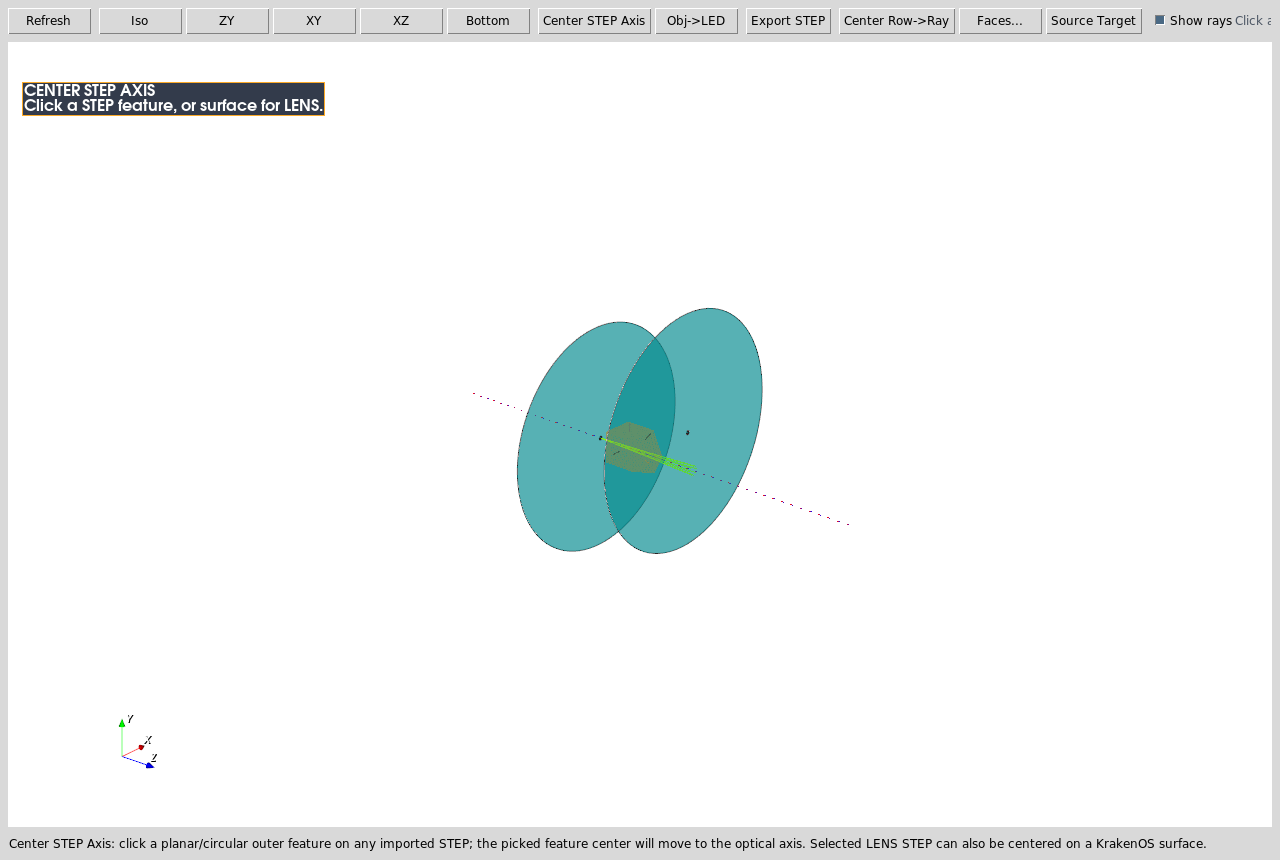
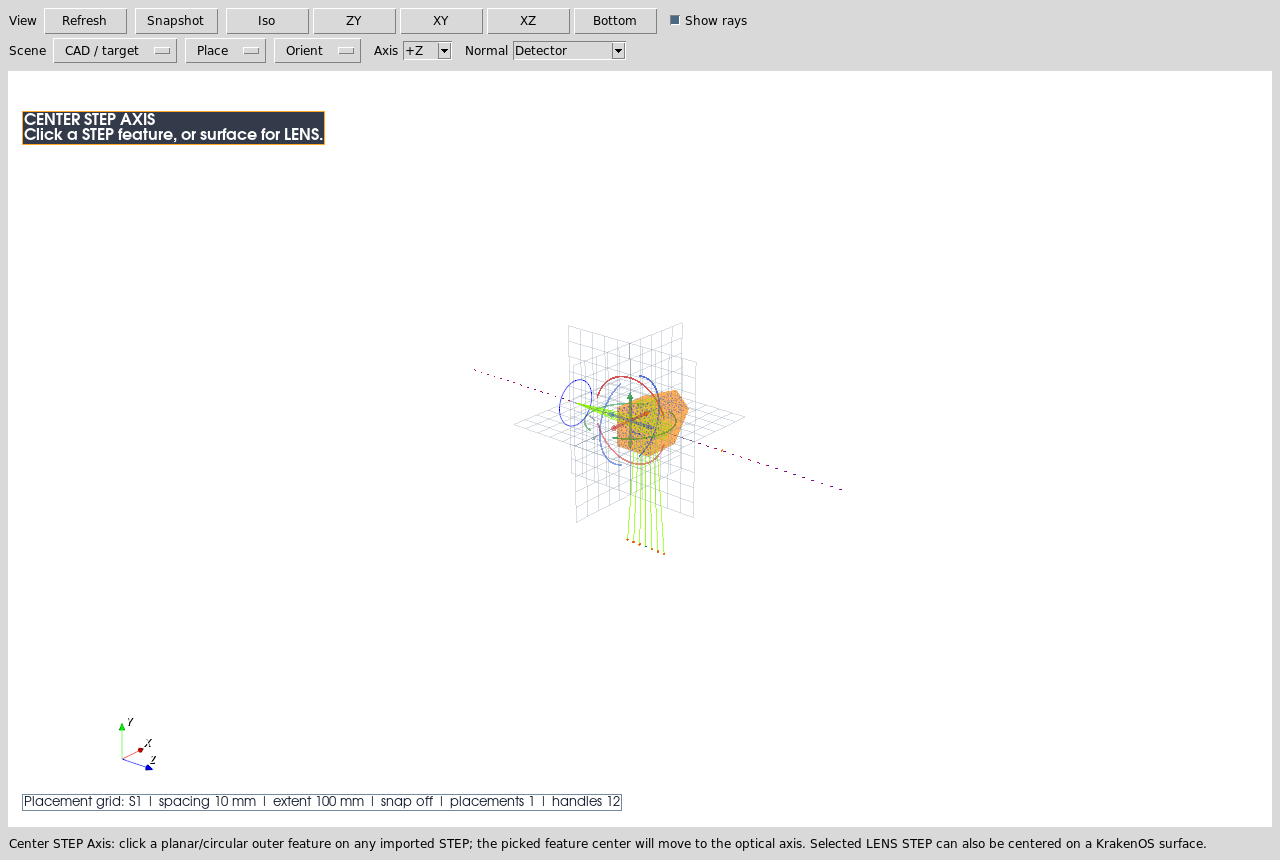
Validate STEP rotation handles

Changed region(s): [[0.0, 0.0, 1.0, 0.1814], [0.4062, 0.3628, 0.5938, 0.6651], [0.0312, 0.8465, 0.4688, 0.9372]]

diff --git a/KrakenOS/UI/validate_step_rotation_handles.py b/KrakenOS/UI/validate_step_rotation_handles.py
@@ -1,0 +1,86 @@
+"""Validate in-scene STEP rotation handle generation and write-through."""
+
+from __future__ import annotations
+
+from pathlib import Path
+
+from KrakenOS.UI import layout_editor as le
+from KrakenOS.UI.layout_editor import Kraken3DInspector, KrakenLayoutEditor
+
+
+def main() -> int:
+    le._load_3d_backends()
+    if le.pv is None:
+        raise RuntimeError("PyVista is required for STEP rotation handle validation.")
+
+    app = KrakenLayoutEditor(headless=True)
+    try:
+        app.imported_lens_step_path = Path("/tmp/kraken-validation-lens.step")
+        app.select_step_component("lens")
+
+        inspector = Kraken3DInspector.__new__(Kraken3DInspector)
+        inspector.editor = app
+        inspector.status_var = app.status_var
+        inspector._step_rotation_active_label = None
+
+        records: list[tuple[object, dict[str, object]]] = []
+
+        def record_actor(mesh, **kwargs):
+            records.append((mesh, kwargs))
+            return object()
+
+        inspector._add_mesh_actor = record_actor  # type: ignore[method-assign]
+
+        mesh = le.pv.Cube(center=(3.0, -2.0, 25.0), x_length=8.0, y_length=5.0, z_length=12.0)
+        center_extent = Kraken3DInspector._step_rotation_handle_center_and_extent(mesh)
+        if center_extent is None:
+            raise AssertionError("Expected a center/extent for the synthetic STEP mesh.")
+        center, extent = center_extent
+        if tuple(round(float(value), 6) for value in center) != (3.0, -2.0, 25.0):
+            raise AssertionError(f"Unexpected handle center: {center!r}")
+        if round(float(extent), 6) != 12.0:
+            raise AssertionError(f"Unexpected handle extent: {extent!r}")
+
+        count = inspector._add_step_rotation_handles("lens", mesh)
+        if count != 6 or len(records) != 6:
+            raise AssertionError(f"Expected six STEP rotation handles, got count={count}, records={len(records)}.")
+        rotate_specs = sorted(
+            tuple(record[1].get("pick_step_rotate", ())) for record in records
+        )
+        expected_specs = sorted(
+            (
+                ("lens", "x", -90.0),
+                ("lens", "x", 90.0),
+                ("lens", "y", -90.0),
+                ("lens", "y", 90.0),
+                ("lens", "z", -90.0),
+                ("lens", "z", 90.0),
+            )
+        )
+        if rotate_specs != expected_specs:
+            raise AssertionError(f"Unexpected STEP rotation pick specs: {rotate_specs!r}")
+        if any(int(getattr(record[0], "n_points", 0)) <= 0 for record in records):
+            raise AssertionError("A STEP rotation handle mesh was empty.")
+
+        inspector._apply_step_rotation_handle("lens", "x", 90.0)
+        inspector._apply_step_rotation_handle("lens", "y", -90.0)
+        inspector._apply_step_rotation_handle("lens", "z", 90.0)
+        if (
+            float(app.lens_step_rotation_x_deg) != 90.0
+            or float(app.lens_step_rotation_y_deg) != 270.0
+            or float(app.lens_step_rotation_z_deg) != 90.0
+        ):
+            raise AssertionError(
+                "STEP rotation handles did not write through to the persistent lens STEP rotation state."
+            )
+        if app._selected_step_label != "lens" or inspector._step_rotation_active_label != "lens":
+            raise AssertionError("STEP rotation handle did not preserve the selected STEP component.")
+    finally:
+        app.destroy()
+
+    print("STEP rotation handle validation passed.")
+    return 0
+
+
+if __name__ == "__main__":
+    raise SystemExit(main())

diff --git a/KrakenOS/UI/capture_3d_hardware_alignment_case_study_screenshots.py b/KrakenOS/UI/capture_3d_hardware_alignment_case_study_screenshots.py
@@ -78,21 +78,33 @@ def _save_center_step_badge(app: KrakenLayoutEditor, inspector: Kraken3DInspecto
     inspector.update()
     time.sleep(0.3)
     inspector.update()
-    return _save_widget(inspector, output_dir, "03_center_step_axis_mode_badge.png")
+    path = _save_widget(inspector, output_dir, "03_center_step_axis_mode_badge.png")
+    app._cad_axis_pick_any = False
+    app._cad_axis_pick_label = None
+    app._cad_led_object_edge_pick = False
+    inspector._set_axis_pick_cursor(False)
+    inspector._update_mode_badge()
+    return path
 
 
-def _save_step_rotation_handler(app: KrakenLayoutEditor, inspector: Kraken3DInspector, output_dir: Path) -> Path:
+def _save_step_rotation_handles(app: KrakenLayoutEditor, inspector: Kraken3DInspector, output_dir: Path) -> Path:
+    app._cad_axis_pick_any = False
+    app._cad_axis_pick_label = None
+    app._cad_led_object_edge_pick = False
     app.imported_lens_step_path = PRISM_42779_STEP
-    app._selected_step_label = "lens"
+    app.select_step_component("lens")
     inspector.show_step_rotation_handler("lens")
-    popup = inspector._step_rotation_popup
-    if popup is None:
-        raise RuntimeError("STEP rotation handler did not open")
-    popup.update_idletasks()
-    popup.update()
+    inspector.refresh_from_editor()
+    if not getattr(inspector, "_actor_step_rotate_map", {}):
+        raise RuntimeError("STEP rotation handles did not render")
+    inspector._set_axis_pick_cursor(False)
+    inspector._update_mode_badge()
+    inspector.lift()
+    inspector.update_idletasks()
+    inspector.update()
     time.sleep(0.3)
-    popup.update()
-    path = _save_widget(popup, output_dir, "04_step_rotation_handler.png")
+    inspector.update()
+    path = _save_widget(inspector, output_dir, "04_step_rotation_handler.png")
     inspector._close_step_rotation_handler()
     return path
 
@@ -130,7 +142,7 @@ def capture(output_dir: Path) -> list[Path]:
             outputs.append(_save_widget(inspector, output_dir, "01_3d_inspector_axis_faces.png"))
             outputs.append(_save_stl_placement_handler(inspector, output_dir))
             outputs.append(_save_center_step_badge(app, inspector, output_dir))
-            outputs.append(_save_step_rotation_handler(app, inspector, output_dir))
+            outputs.append(_save_step_rotation_handles(app, inspector, output_dir))
             outputs.append(_save_source_target_badge(inspector, output_dir))
         finally:
             try:

diff --git a/KrakenOS/UI/validate_3d_hardware_alignment_case_study.py b/KrakenOS/UI/validate_3d_hardware_alignment_case_study.py
@@ -36,18 +36,20 @@ def main() -> int:
     stl_handler = inspect.getsource(Kraken3DInspector.show_stl_placement_handler)
     badge_text = inspect.getsource(Kraken3DInspector._active_mode_badge_text)
     step_handler = inspect.getsource(Kraken3DInspector.show_step_rotation_handler)
+    step_handles = inspect.getsource(Kraken3DInspector._add_step_rotation_handles)
 
     checks = [
         ("case-study page exists", DOC_PATH.exists()),
         ("case-study in tutorials toctree", "3d_hardware_alignment" in index),
         ("capture script exists", CAPTURE_SCRIPT.exists() and "DEFAULT_OUTPUT_DIR" in capture),
         ("case-study documents CAD/STL handler", "CAD/STL placement handler" in doc),
-        ("case-study documents STEP handler", "STEP rotation handler" in doc),
+        ("case-study documents STEP rotation handles", "STEP rotation handles" in doc),
         ("case-study documents active-mode badges", "active-mode badge" in doc),
         ("case-study documents Done -> 2D", "Done -> 2D" in doc),
         ("CAD/STL handler has inline help", "What this does" in stl_handler and "Fit Axis chooses" in stl_handler),
         ("CAD/STL handler exposes placement actions", "Front On Row" in stl_handler and "Center X/Y" in stl_handler),
-        ("STEP handler still exposes repeated rotations", "-90.0" in step_handler and "90.0" in step_handler),
+        ("STEP handler selects in-scene handles", "colored STEP rotation handles" in step_handler and "tk.Toplevel" not in step_handler),
+        ("STEP handles expose repeated rotations", "pick_step_rotate" in step_handles and "-1.0" in step_handles and "90.0" in step_handles),
         ("mode badges cover source target", "SOURCE TARGET" in badge_text),
         ("mode badges cover center step axis", "CENTER STEP AXIS" in badge_text),
     ]

diff --git a/KrakenOS/UI/validate_demo_readiness.py b/KrakenOS/UI/validate_demo_readiness.py
@@ -37,6 +37,10 @@ DEFAULT_CHECKS: tuple[DemoCheck, ...] = (
         ("-m", "KrakenOS.UI.validate_step_axis_surface_pick"),
     ),
     DemoCheck(
+        "STEP rotation handles",
+        ("-m", "KrakenOS.UI.validate_step_rotation_handles"),
+    ),
+    DemoCheck(
         "lens drawing PDF case study",
         ("-m", "KrakenOS.UI.validate_lens_drawing_pdf_case_study"),
     ),

diff --git a/docs/source/tutorials/3d_hardware_alignment.rst b/docs/source/tutorials/3d_hardware_alignment.rst
@@ -12,7 +12,7 @@ focusing on the 3D controls themselves:
 * use the ``CAD/STL placement handler`` instead of a dense second toolbar;
 * understand what each placement action changes in the table;
 * arm a 3D pick workflow and read the active-mode badge;
-* use the ``STEP rotation handler`` for repeated vendor-hardware rotations;
+* use in-scene ``STEP rotation handles`` for repeated vendor-hardware rotations;
 * know when to press ``Done -> 2D``.
 
 The screenshots in this tutorial are generated from the live Tk/VTK UI with:
@@ -90,16 +90,17 @@ The same badge mechanism is used by ``Obj->LED``, ``Center Row->Ray``, and
 Rotate Imported STEP Hardware
 -----------------------------
 
-Clicking an imported lens, LED, or camera STEP overlay opens a small persistent
-rotation handler near the click location.
+Clicking an imported lens, LED, or camera STEP overlay selects that component
+and draws coloured ``X/Y/Z`` rotation handles around it inside the 3D scene.
 
 .. figure:: ../_static/tutorials/3d_hardware_alignment/04_step_rotation_handler.png
-   :alt: STEP rotation handler popup
-   :width: 52%
+   :alt: STEP rotation handles in the embedded 3D inspector
+   :width: 100%
 
-   Use this for successive ``X/Y/Z +/-90`` rotations while watching the 3D
-   view. It replaces the older duplicate toolbar menu, so rotation is tied to
-   the selected STEP component instead of hidden in the main toolbar.
+   Click a red, green, or blue handle for successive ``X/Y/Z +/-90`` rotations
+   while watching the imported STEP overlay move in the same 3D scene. This
+   replaces the older floating popup and duplicate toolbar menu, so rotation is
+   tied to the selected STEP component and does not cover the geometry.
 
 Pick Source Targets From 3D
 ---------------------------
@@ -128,7 +129,7 @@ physics of one particular component:
 * contextual CAD/STL placement side panel with inline help;
 * table-backed row pose edits through ``Tilt`` and ``Desp`` fields;
 * active-mode badges for multi-click 3D workflows;
-* selected STEP rotation popup for imported hardware overlays;
+* selected STEP rotation handles for imported hardware overlays;
 * source-target picking from the 3D view.
 
 Common Mistakes
@@ -147,6 +148,6 @@ Common Mistakes
   Treat it as a modal instruction. While the badge is visible, the next click
   is consumed by that workflow rather than by normal row/ray selection.
 
-``The STEP rotation handler rotates CAD/STL optical solid rows.``
-  It rotates imported lens/LED/camera STEP overlays. File-backed optical
+``The STEP rotation handles rotate CAD/STL optical solid rows.``
+  They rotate imported lens/LED/camera STEP overlays. File-backed optical
   CAD/STL rows use the separate ``CAD/STL placement handler``.

diff --git a/BRANCH_README.md b/BRANCH_README.md
@@ -136,7 +136,8 @@ kraken-vtk-tk-check
 - Imported lens, camera, and LED STEP overlays now rotate through selected
   in-scene colored handles instead of a separate floating STEP rotation popup.
   The handles use the same pickable 3D interaction style as row placement
-  rotation controls and write the existing STEP rotation state.
+  rotation controls, write the existing STEP rotation state, and are covered by
+  a non-GUI handle-generation/write-through validator.
 - Ray display filters show all rays, detector hits, missed detector paths,
   absorbed paths, escaped paths, diagnostic stops, and beam-splitter branches.
 - When an escaped non-sequential ray has a configured detector/Image plane, the
@@ -372,6 +373,7 @@ python -m KrakenOS.UI.validate_mixed_source_object_template
 python -m KrakenOS.UI.validate_ray_inspector_event_contract
 python -m KrakenOS.UI.validate_detector_aperture_analysis
 python -m KrakenOS.UI.validate_3d_interaction_contract
+python -m KrakenOS.UI.validate_step_rotation_handles
 python -m KrakenOS.UI.validate_open3d_toolbar_layout
 python -m KrakenOS.UI.validate_optical_solid_hit_sequence
 python -m KrakenOS.UI.validate_branch_gaussian_q_report
